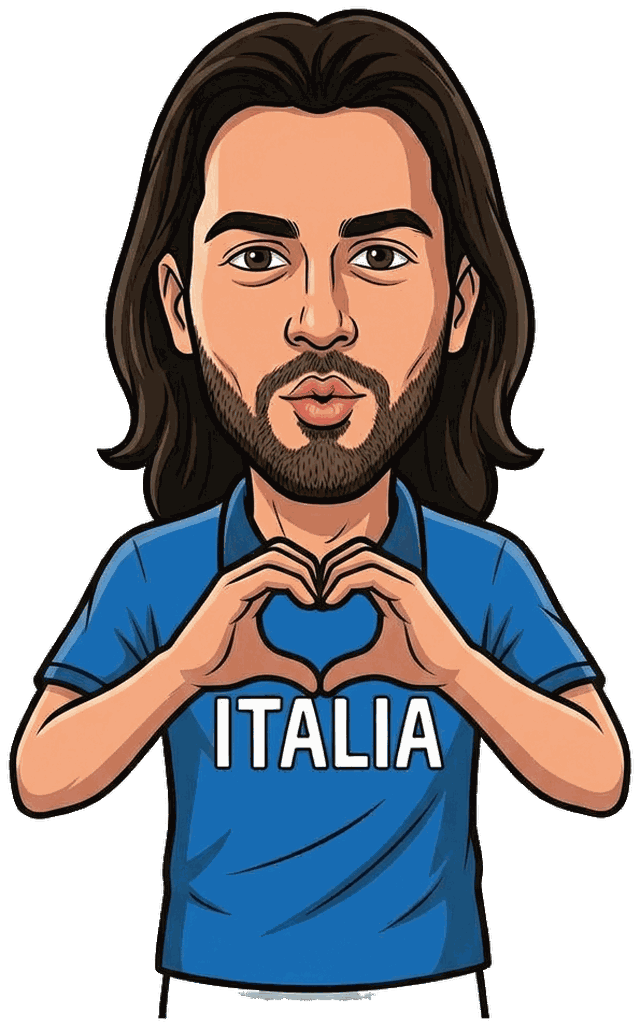
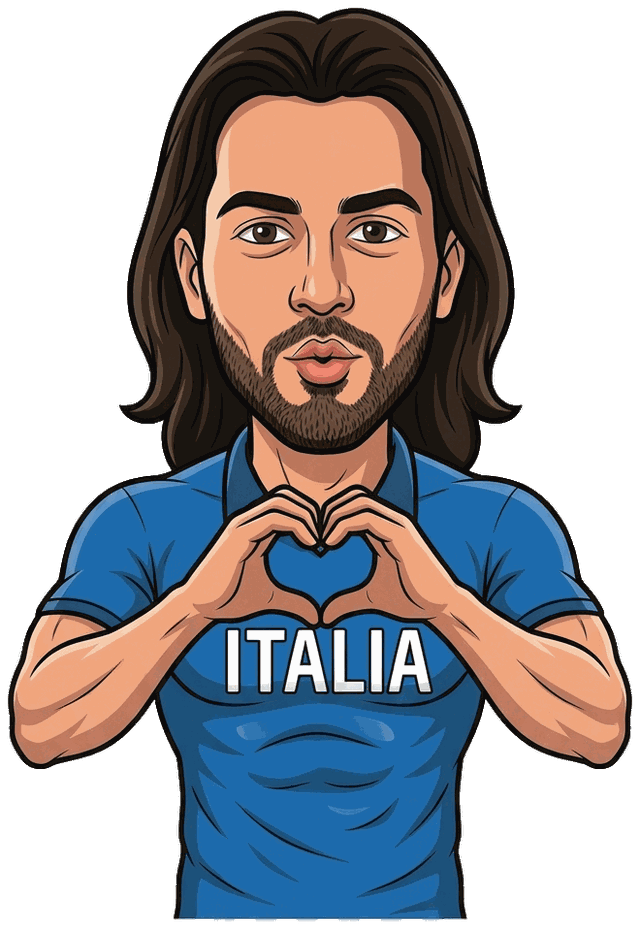
Fußball-Auktion: doppelte Setup-Überschrift entfernt, Flaggen-Badge zentriert
- Die Setup-Karte zeigt die Spielüberschrift nicht mehr doppelt (einmal im
  oberen Spielkopf, einmal als eigenes <h1>) - das eigene <h1> ist raus,
  analog zu den gleichen Fixes bei anderen Spielen.
- Flaggen-Badge sitzt jetzt horizontal mittig unter der Gesamtwertung (war
  zu weit links) und etwas näher dran.
- Porträts, die am rechten Rand mit dem Kopf in Richtung Flagge ragen
  (Naderi Moccia, Nicola Trulli), bekommen über eine neue
  PORTRAET_VERSATZ-Zuordnung in design.js einen zusätzlichen Versatz nach
  links.
- Nicola Trulli hat ein neues, sauberer freigestelltes Porträt bekommen.

Claude-Session: https://claude.ai/code/session_01Bq3j1UmgmmQRjdUKFtX7an

diff --git a/index.html b/index.html
@@ -18,7 +18,7 @@
   <link rel="preconnect" href="https://fonts.googleapis.com">
   <link rel="preconnect" href="https://fonts.gstatic.com" crossorigin>
   <link href="https://fonts.googleapis.com/css2?family=Barlow+Condensed:ital,wght@0,800;1,800&family=Bungee&display=swap" rel="stylesheet">
-  <link rel="stylesheet" href="stil.css?v=227">
+  <link rel="stylesheet" href="stil.css?v=228">
 </head>
 <body>
 
@@ -39,7 +39,7 @@
   <div id="start-screen" class="bildschirm-karte">
     <div class="start-hero">
       <div class="start-icon">
-        <img src="bilder/logo-fuchs-transparent.png?v=227" width="102" height="102" alt="" class="app-icon">
+        <img src="bilder/logo-fuchs-transparent.png?v=228" width="102" height="102" alt="" class="app-icon">
       </div>
       <h1>Trollhouse</h1>
       <p class="start-tagline">Ein Raum, ein Abend, viele Spiele</p>
@@ -192,11 +192,11 @@
   <div id="lobby-screen" class="bildschirm-karte" hidden>
     <div class="lobby-kopf">
       <div class="lobby-marke">
-        <span class="lobby-logo-badge"><img src="bilder/logo-fuchs-transparent.png?v=227" width="36" height="36" alt="" class="lobby-app-icon"></span>
+        <span class="lobby-logo-badge"><img src="bilder/logo-fuchs-transparent.png?v=228" width="36" height="36" alt="" class="lobby-app-icon"></span>
         <h1>Trollhouse</h1>
       </div>
       <button id="btn-lobby-verlassen" class="lobby-verlassen" type="button">
-        <img src="bilder/icon-raum-verlassen.svg?v=227" width="32" height="32" alt="">
+        <img src="bilder/icon-raum-verlassen.svg?v=228" width="32" height="32" alt="">
         <span class="nur-screenreader">Raum verlassen</span>
       </button>
     </div>
@@ -242,6 +242,6 @@
   <!-- ---------- Hierhin rendert das jeweils laufende Spiel ---------- -->
   <div id="spiel-wurzel"></div>
 
-  <script type="module" src="app.js?v=227"></script>
+  <script type="module" src="app.js?v=228"></script>
 </body>
 </html>

diff --git a/spiele/fussball-auktion/design.js b/spiele/fussball-auktion/design.js
@@ -156,9 +156,19 @@ export function nationDesign(nation) {
 // Alle Karten, die hier NICHT eingetragen sind, bekommen automatisch die
 // gezeichnete Platzhalter-Silhouette (siehe kartenPortraitHtml in spiel.js).
 export const PORTRAET_BILDER = {
-  "it-1": "bilder/fussball-auktion/spieler-it-1.png?v=226",
-  "it-2": "bilder/fussball-auktion/spieler-it-2.png?v=226",
-  "it-3": "bilder/fussball-auktion/spieler-it-3.png?v=226",
-  "it-4": "bilder/fussball-auktion/spieler-it-4.png?v=226",
-  "it-5": "bilder/fussball-auktion/spieler-it-5.png?v=226"
+  "it-1": "bilder/fussball-auktion/spieler-it-1.png?v=228",
+  "it-2": "bilder/fussball-auktion/spieler-it-2.png?v=228",
+  "it-3": "bilder/fussball-auktion/spieler-it-3.png?v=228",
+  "it-4": "bilder/fussball-auktion/spieler-it-4.png?v=228",
+  "it-5": "bilder/fussball-auktion/spieler-it-5.png?v=228"
+};
+
+// Manche Porträts sind (je nach Bildausschnitt) von Natur aus breiter als
+// andere und ragen dadurch mit dem Kopf zu weit nach rechts in Richtung des
+// Flaggen-Badges hinein. Pro Karten-ID lässt sich hier zusätzlich zur
+// Standardposition (siehe .fa-karte-portrait in stil.css) ein zusätzlicher
+// Versatz nach links angeben, in Prozentpunkten der Kartenbreite.
+export const PORTRAET_VERSATZ = {
+  "it-2": 7,
+  "it-3": 9
 };

diff --git a/spiele/fussball-auktion/spiel.js b/spiele/fussball-auktion/spiel.js
@@ -28,11 +28,10 @@ import {
   kartenSumme, pruefeGebote, loeseGebotsrundeAuf, berechneRundenpunkte,
   zufaelligeRundenKategorien, mische
 } from "./logik.js";
-import { nationDesign, PORTRAET_BILDER } from "./design.js";
+import { nationDesign, PORTRAET_BILDER, PORTRAET_VERSATZ } from "./design.js";
 
 const VORLAGE = `
   <div id="fa-setup" class="bildschirm-karte" hidden>
-    <h1>⚽ Fußball-Auktion</h1>
     <p class="hinweis-text">
       Jeder startet mit ${STARTMUENZEN} Münzen. In 5 Gebotsrunden werden verdeckt Gebote auf
       Fußballkarten abgegeben (maximal ${MAX_KARTEN_PRO_SPIELER} Karten pro Spieler). Danach spielt
@@ -332,7 +331,9 @@ export async function vorZurueck() {
 function kartenPortraitHtml(k, akzent) {
   const bild = PORTRAET_BILDER[k.id];
   if (bild) {
-    return `<img class="fa-karte-portrait" src="${escapeHtml(bild)}" alt="${escapeHtml(k.name)}">`;
+    const versatz = PORTRAET_VERSATZ[k.id];
+    const style = versatz ? ` style="right: calc(2% + ${versatz}%)"` : "";
+    return `<img class="fa-karte-portrait" src="${escapeHtml(bild)}" alt="${escapeHtml(k.name)}"${style}>`;
   }
   // Platzhalter-Silhouette (Kopf + Schultern) für alle Karten ohne echtes Bild.
   return (

diff --git a/sw.js b/sw.js
@@ -4,7 +4,7 @@
 // Nur dann wirft der Browser den alten Zwischenspeicher weg und alle Spieler
 // bekommen zuverlässig die neue Version. Das ist der einzige Handgriff, den man
 // nach dem Bearbeiten von Dateien nicht vergessen darf.
-const CACHE_NAME = "trollhouse-v227";
+const CACHE_NAME = "trollhouse-v228";
 
 const DATEIEN = [
   "./",
@@ -47,11 +47,11 @@ const DATEIEN = [
   "spiele/fussball-auktion/logik.js",
   "spiele/fussball-auktion/design.js",
   "spiele/fussball-auktion/karten.json",
-  "bilder/fussball-auktion/spieler-it-1.png?v=226",
-  "bilder/fussball-auktion/spieler-it-2.png?v=226",
-  "bilder/fussball-auktion/spieler-it-3.png?v=226",
-  "bilder/fussball-auktion/spieler-it-4.png?v=226",
-  "bilder/fussball-auktion/spieler-it-5.png?v=226",
+  "bilder/fussball-auktion/spieler-it-1.png?v=228",
+  "bilder/fussball-auktion/spieler-it-2.png?v=228",
+  "bilder/fussball-auktion/spieler-it-3.png?v=228",
+  "bilder/fussball-auktion/spieler-it-4.png?v=228",
+  "bilder/fussball-auktion/spieler-it-5.png?v=228",
   "spiele/doppelblick/spiel.js",
   "spiele/blitzquiz/spiel.js",
   "spiele/blitzquiz/fragen.json",

diff --git a/app.js b/app.js
@@ -13,9 +13,9 @@ import {
 // WICHTIG: bei jedem Versionssprung hier UND in spiele/register.js
 // (SPIEL_VERSION) mit hochzaehlen, sonst bekommen manche Geraete
 // Spiel-Fixes (spiele/<id>/spiel.js) verzoegert oder gar nicht mit.
-import { SPIELE, spielInfo } from "./spiele/register.js?v=227";
+import { SPIELE, spielInfo } from "./spiele/register.js?v=228";
 
-export const APP_VERSION = "v227";
+export const APP_VERSION = "v228";
 const appVersion = document.getElementById("app-version");
 appVersion.textContent = "Version " + APP_VERSION;
 

diff --git a/stil.css b/stil.css
@@ -2719,7 +2719,7 @@
   text-shadow: 0 0 3px color-mix(in srgb, var(--n-akzent) 70%, transparent); line-height: 1;
 }
 .fa-karte-flaggenbadge {
-  position: absolute; z-index: 3; top: calc(4% + 18% + 1%); right: 3%; width: 30%;
+  position: absolute; z-index: 3; top: calc(4% + 18%); right: -1%; width: 30%;
   aspect-ratio: 2.5 / 1;
   filter: drop-shadow(0 2px 4px rgba(0, 0, 0, .45));
 }

diff --git a/spiele/register.js b/spiele/register.js
@@ -18,7 +18,7 @@
 // in der Olympiade trotz Fix in v201/v202 teils noch bestehen lassen.
 // WICHTIG: bei jedem Versionssprung hier UND in app.js (Import von
 // register.js) mit hochzaehlen.
-const SPIEL_VERSION = "227";
+const SPIEL_VERSION = "228";
 
 export const SPIELE = [
   {
